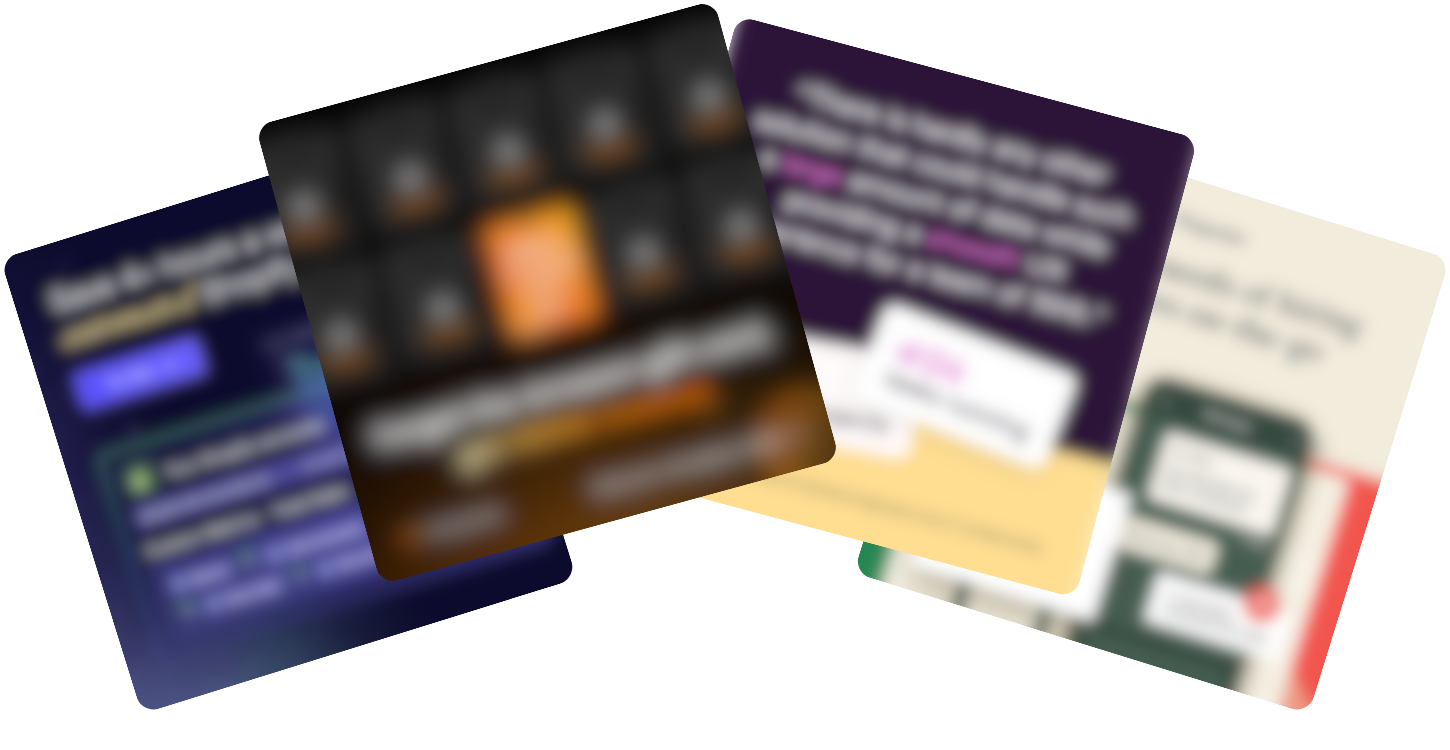
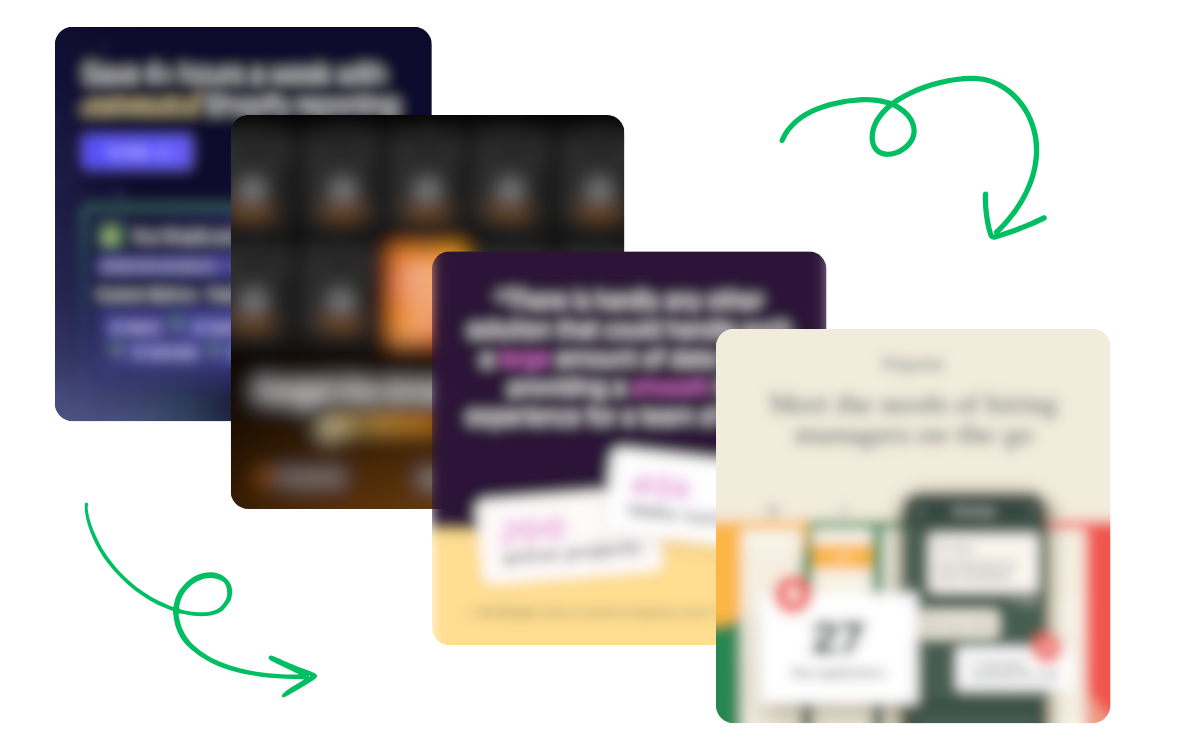
Replace creatives image and revert container to 40% width

diff --git a/index.html b/index.html
@@ -1282,10 +1282,10 @@
                         <div class="animated-border"></div>
                         <div class="relative bg-[#0A0B10] border border-white/10 overflow-hidden transition-all duration-500 group-hover:border-transparent">
                             <div class="flex flex-col md:flex-row">
-                                <div class="md:w-[50%] aspect-[16/9] md:aspect-auto bg-gradient-to-br from-[#93c5fd] via-[#5865F2] to-[#1e1b4b] flex items-center justify-center relative overflow-hidden p-3 md:p-4">
-                                    <img src="images/client-result-creatives.png" alt="Client Results Creatives" class="w-full h-full object-contain">
+                                <div class="md:w-[40%] aspect-[16/10] md:aspect-auto bg-gradient-to-br from-[#93c5fd] via-[#5865F2] to-[#1e1b4b] flex items-center justify-center relative overflow-hidden p-6 md:p-8">
+                                    <img src="images/client-result-creatives.png" alt="Client Results Creatives" class="w-full h-auto object-contain">
                                 </div>
-                                <div class="md:w-[50%] p-8 md:p-12 flex flex-col justify-center">
+                                <div class="md:w-[60%] p-8 md:p-12 flex flex-col justify-center">
                                     <div class="inline-block mb-8">
                                         <span class="inline-flex items-center px-4 py-2 bg-[#5865F2]/10 border border-[#5865F2]/20 text-[#5865F2] text-xs uppercase tracking-widest font-medium">B2B Data Enrichment Tool</span>
                                     </div>
